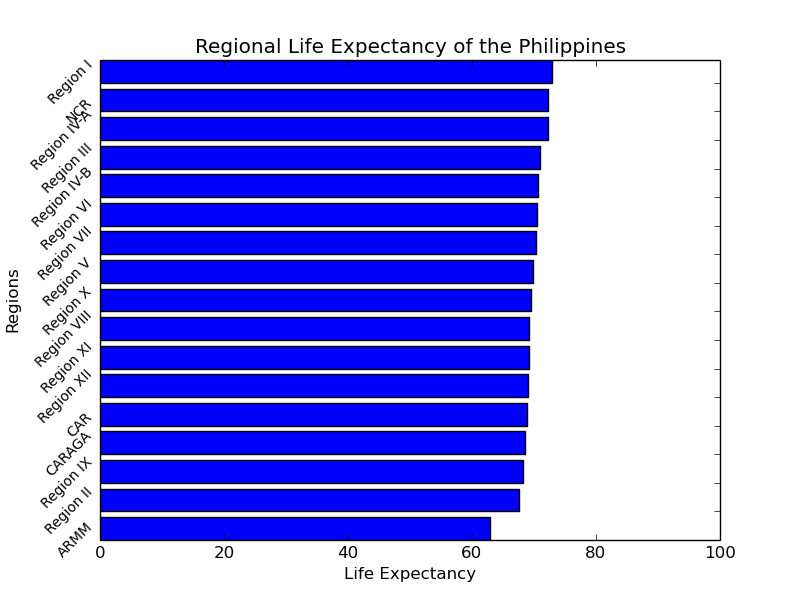
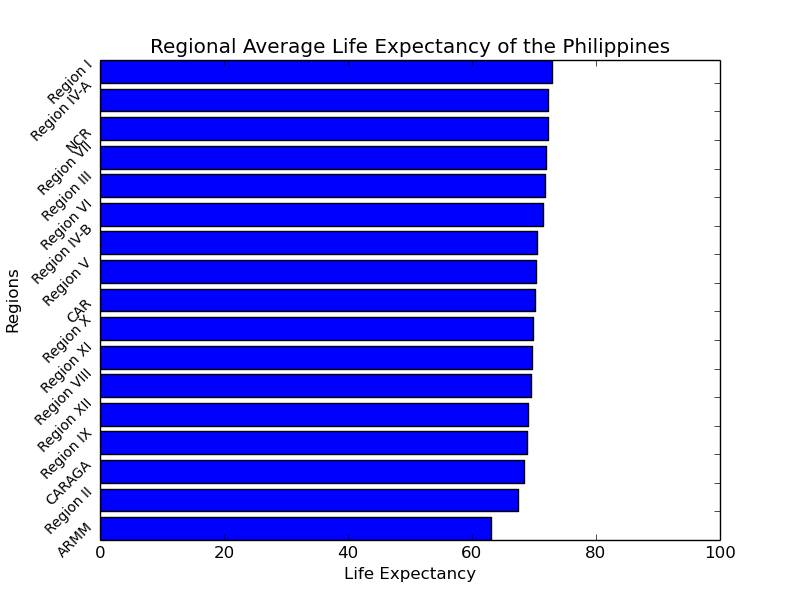
Code for life Expectancy

diff --git a/scripts/lab2_age.py b/scripts/lab2_age.py
@@ -27,9 +27,16 @@ def ageCounter(region_val):
     sum = 0
     reg_index = where(region==region_val)
     for i in range(0,len(reg_index[0])):
-        sum = sum + lifeExpectancy[reg_index[0][i]]
-    avg = sum/len(reg_index[0])
+        sum = sum + (lifeExpectancy[reg_index[0][i]] * population[reg_index[0][i]])
+    avg = sum/popCounter(region_val)
     return avg
+
+def popCounter(region_val):
+    sum = 0
+    reg_index = where(region==region_val)
+    for i in range(0,len(reg_index[0])):
+        sum = sum + population[reg_index[0][i]]
+    return sum
 
 # Set x and y labels and values for barplot
 # and then graph values and save in fig folder
